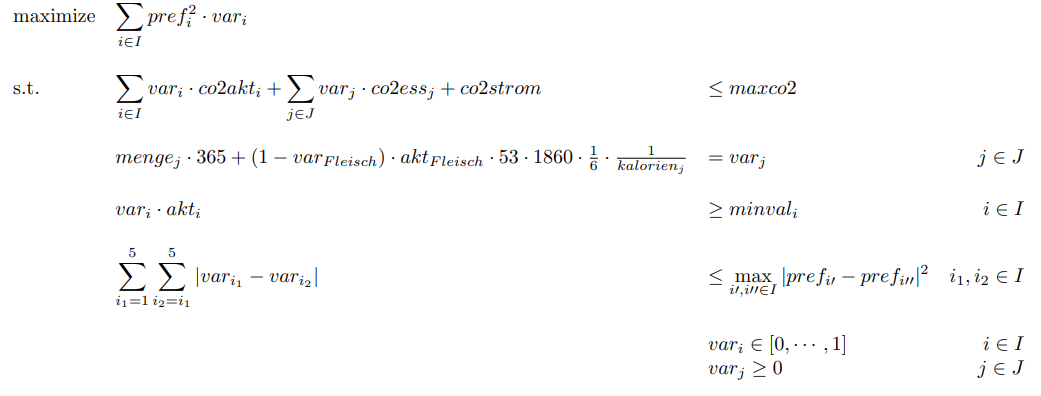
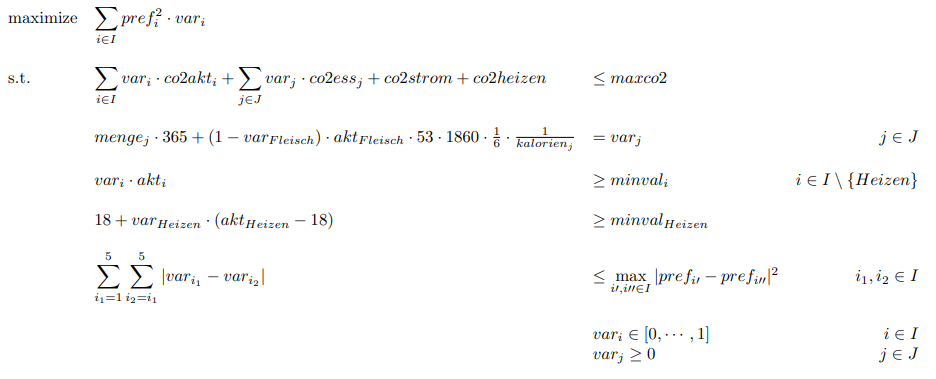
Optimierung fertig

diff --git a/footprintapp.py b/footprintapp.py
@@ -316,7 +316,7 @@ elif navigation == "Rechner: Fußabdruckoptimierung":
                         
                         
                         solution,max_prefdiff,maxco2 = optimize(akt, pref, min_vals, jahr, co2_akt, faktor_nahrung)
-                        st.write(solution)
+                        #st.write(solution)
                         #st.write(max_prefdiff)
                     
                         st.markdown("***")
@@ -728,17 +728,25 @@ elif navigation == 'Hintergrund: Fußabdruckoptimierung':
                durchschnittlichen Verzehrmengen der übrigen Lebensmittelgruppen berechnet.
                Dies geschieht auf Basis der Daten die in Tabelle 12 zu finden sind.
                    """,unsafe_allow_html=True)
-    c1,c2 = st.beta_columns(2)
-    imagekal1= Image.open('Formel_Kalorien.PNG')
-    c1.markdown("<br><br><br>",unsafe_allow_html=True)
-    c1.image(imagekal1, use_column_width=True,width=700, clamp=False, channels='RGB', output_format='auto')
+    c1,c2,c3 = st.beta_columns((1,2,1))
     imagekal2= Image.open('Tab12.PNG')
     c2.image(imagekal2, use_column_width=True,width=700, clamp=False, channels='RGB', output_format='auto')
     st.markdown(""" Zu der vorgeschlagenen Reduzierung der Verzehrmenge Fleisch wird die entsprechende
-               Kalorienangabe ermittelt und gleichmäßig auf die anderen Lebensmittelgruppen verteilt. Grundlage 
-               für diese Berechnungen bilden die folgenden Zusammenhänge. (Bild einfügen) 
-               (noch j in die Bilder einfügen für die Lebensmittelkategorien). <br>
-               Wir erhalten den Zusammenhang:""",unsafe_allow_html=True)
+               Kalorienangabe ermittelt"""
+               ,unsafe_allow_html=True)
+    c1,c2,c3 = st.beta_columns((1,4,1))
+    c2.write("$(1-var_{Fleisch}) \cdot akt_{Fleisch} \cdot 53 \cdot 1860$")
+    st.markdown(""" und gleichmäßig auf die anderen Lebensmittelgruppen verteilt:"""
+               ,unsafe_allow_html=True)
+    c1,c2,c3 = st.beta_columns((1,4,1))
+    c2.write("$(1-var_{Fleisch}) \cdot akt_{Fleisch} \cdot 53 \cdot 1860 \cdot 1/6$")
+    st.write("""Abschließend wird der zusätzliche Kalorienwert in Kilogramm umgerechnet. Dies geschieht
+             durch Division durch die Kilokalorien pro Kilogramm des entsprechenden Lebensmittels:
+                """)
+    c1,c2,c3 = st.beta_columns((1,4,1))
+    c2.write("$(1-var_{Fleisch}) \cdot akt_{Fleisch} \cdot 53 \cdot 1860 \cdot 1/6 \cdot 1/kalorien_{j}$")
+    st.write("""Durch die Addition dieser zusätzlichen Verzehrmenge mit der bereits zuvor 
+                verzehrten Menge erhalten wir die neue Verzehrmenge $var_{j}$:""")
     c1,c2,c3 = st.beta_columns((1,4,1))
     c2.write("$menge_{j} + (1-var_{Fleisch}) \cdot akt_{Fleisch} \cdot 53 \cdot 1860 \cdot 1/6 \cdot 1/kalorien_{j} = var_{j}$  $j \in J$")
     st.markdown("""Für den Gesamtausstoß addieren wir zu den bereits genannten Summen noch die 
